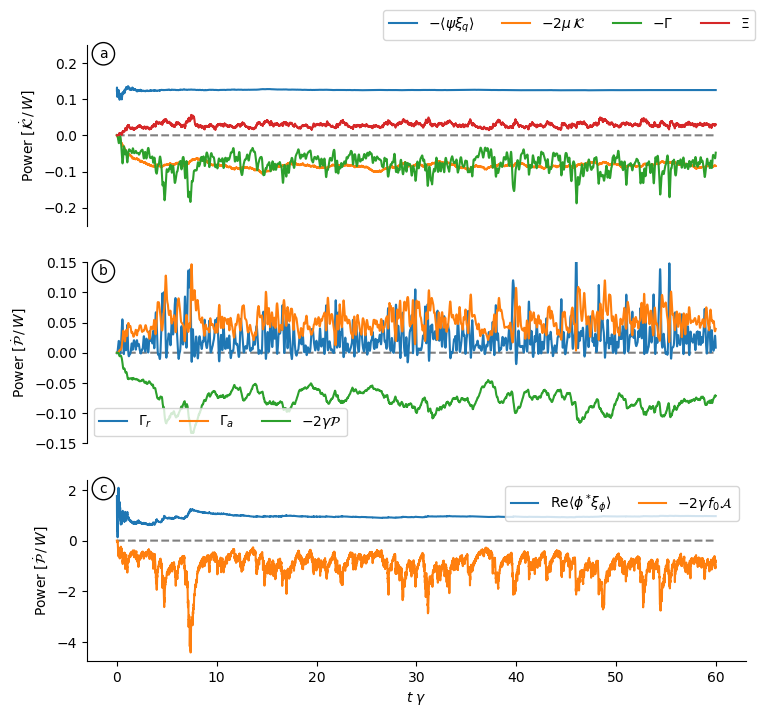
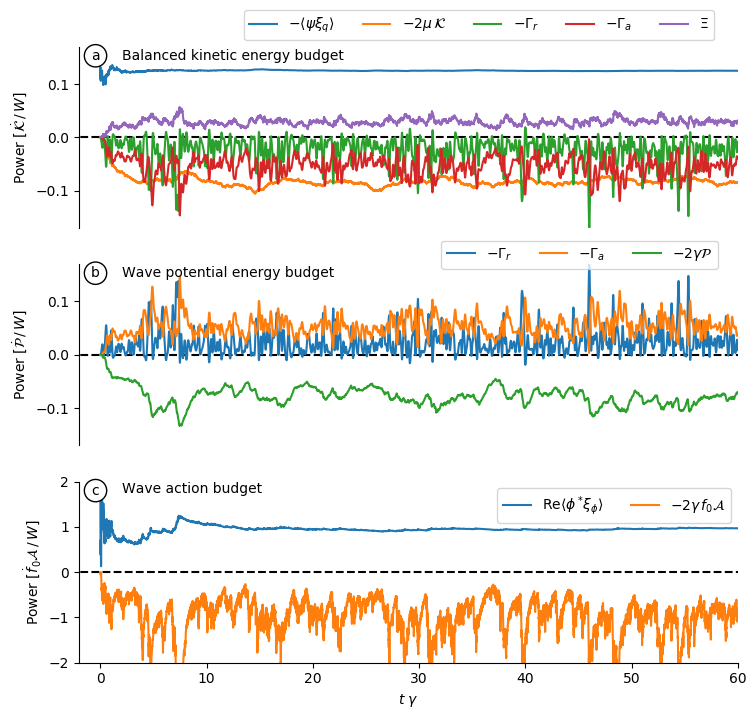
Updates last changes.

diff --git a/code/CompareDiagnostics.py b/code/CompareDiagnostics.py
@@ -13,9 +13,9 @@ import scipy.signal as signal
 plt.close('all')
 
 pathi_nodrag = "output/new/512_nodrag/"
+pathi_nowaves = "output/new/512_nowaves/"
 pathi_reference = "output/new/512_reference/"
 patho = "../writeup/figs/"
-
 
 #
 # parameters
@@ -102,6 +102,7 @@ x, y = setup['grid/x'][:]*kf, setup['grid/y'][:]*kf
 #
 diags_reference = h5py.File(pathi_reference+"diagnostics.h5","r")
 diags_nodrag = h5py.File(pathi_nodrag+"diagnostics.h5","r")
+diags_nowaves = h5py.File(pathi_nowaves+"diagnostics.h5","r")
 time = diags_reference['time'][:]*gamma
 
 #
@@ -112,13 +113,17 @@ time = diags_reference['time'][:]*gamma
 #E = epsilon_q/gamma
 Ew = PHI**2 / 2
 E = Ew
+K = (sigma_q**2)/mu/2
 POWER = (sigma_w**2 / 2)
 
 # energies
 fig = plt.figure(figsize=(8.5,8.))
 ax = fig.add_subplot(311)
+plt.plot([-5,65],[K,K]/E,'k--')
 pk = plt.plot(time,diags_reference['ke_qg'][:]/E)
 pp = plt.plot(time,diags_nodrag['ke_qg'][:]/E)
+plt.plot(time,diags_nowaves['ke_qg'][:]/E)
+plt.xlim(-2,60)
 plt.ylabel(r"Balanced kinetic energy $[\mathcal{K}/E]$")
 plt.yticks([0,0.5,1.0,1.5,2.0])
 plt.legend(loc=(0.35,-0.2),ncol=3)
@@ -126,7 +131,8 @@ remove_axes(ax,bottom=True)
 plot_fig_label(ax,xc=0.025,yc=0.95,label=r'$\mathcal{K}$')
 
 plt.text(47,1.28,'No drag')
-plt.text(28,0.1,'Reference')
+plt.text(33,0.1,'Reference')
+plt.text(15,0.575,'No waves')
 
 ax = fig.add_subplot(312)
 plt.plot(time,(diags_reference['pe_niw'][:])/E,label=r'Reference',color=pk[0].get_color())
@@ -134,6 +140,7 @@ plt.plot(time,(diags_nodrag['pe_niw'][:])/E,label=r'No drag',color=pp[0].get_col
 plt.ylabel(r"Wave potential energy $[\mathcal{P}/E]$")
 plt.ylim(0,.35)
 plt.yticks([0,0.1,.2,.3])
+plt.xlim(-2,60)
 remove_axes(ax)
 plot_fig_label(ax,xc=0.025,yc=0.95,label=r'$\mathcal{P}$')
 remove_axes(ax,bottom=True)
@@ -141,17 +148,17 @@ plt.text(47,0.3,'No drag')
 plt.text(28,0.04,'Reference')
 
 ax = fig.add_subplot(313)
+plt.plot([-5,65],[Ew,Ew]/E,'k--')
 plt.plot(time,(diags_reference['ke_niw'][:])/E,label=r'Reference',color=pk[0].get_color())
 plt.plot(time,(diags_nodrag['ke_niw'][:])/E,label=r'No drag',color=pp[0].get_color())
 plt.ylabel(r"Wave kinetic energy $[f_0\mathcal{A}/E]$")
-
 plt.xlabel(r"Time $[t\,\,\gamma]$")
+plt.xlim(-2,60)
 remove_axes(ax)
 plt.ylim(0,3.5)
 plt.yticks([0,1.0,2.0,3.0],["0.0","1.0","2.0","3.0"])
 plot_fig_label(ax,xc=0.025,yc=0.95,label=r'$\mathcal{A}$')
 plt.savefig(patho+'energies_comparison' , pad_inces=0, bbox_inches='tight')
-
 
 ## averages
 #Am =  diags['ke_niw'][eq].mean()
@@ -163,98 +170,186 @@ plt.savefig(patho+'energies_comparison' , pad_inces=0, bbox_inches='tight')
 #gamma_a = diags['gamma_a'][:]
 #
 ## First, design the Buterworth filter
-#N  = 2    # Filter order
-#Wn = 0.05 # Cutoff frequency
-#B, A = signal.butter(N, Wn, output='ba')
+N  = 2    # Filter order
+Wn = 0.05 # Cutoff frequency
+B, A = signal.butter(N, Wn, output='ba')
 #gamma_a_filt = signal.filtfilt(B,A, gamma_a)
 #gamma_r_filt = signal.filtfilt(B,A, gamma_r)
 
-# energies
-fig = plt.figure(figsize=(8.5,5.))
-ax = fig.add_subplot(211)
-pa = plt.plot(time,diags['ke_niw']/E,label=r'$f_0\mathcal{A}$')
-pk = plt.plot(time,diags['ke_qg'][:]/E,label=r'$\mathcal{K}$')
-pp = plt.plot(time,diags['pe_niw']/E,label=r'$\mathcal{P}$')
-#plt.xlabel(r"Time $[t\,\,\gamma]$")
-plt.ylabel(r"Energy $[\mathcal{E}/E]$")
-plt.yticks(np.arange(0,4))
-plt.legend(loc=(0.35,-0.2),ncol=3)
-remove_axes(ax,bottom=True)
-plot_fig_label(ax,xc=0.025,yc=0.95,label='a')
-
-ax = fig.add_subplot(212)
-plt.plot(time,np.zeros_like(time),'--',color='0.5')
-plt.plot(time,(diags['ke_qg'][:]-Km)/E,label=r'$\mathcal{K}$',color=pk[0].get_color())
-plt.plot(time,(diags['pe_niw']-Pm)/E,label=r'$\mathcal{P}$',color=pp[0].get_color())
-plt.xlabel(r"Time $[t\,\,\gamma]$")
-plt.ylabel(r"Energy diff $[\Delta \mathcal{E}/E]$")
-plt.ylim(1.,1.)
-plt.yticks([-1.,-0.5,0,0.5,1.])
-remove_axes(ax)
-plot_fig_label(ax,xc=0.025,yc=0.95,label='b')
-plt.savefig(patho+'energies_nodrag' , pad_inces=0, bbox_inches='tight')
-
 # energy budgets
+
+# reference
 fig = plt.figure(figsize=(8.5,8.))
-
 ax = fig.add_subplot(311)
-plt.plot(time,np.zeros_like(time),'--',color='0.5')
-plt.plot(time,(diags['Work_q'][:])/(time/gamma)/POWER,label=r'$-\leftangle \psi \xi_q \rightangle$')
-plt.plot(time,diags['ep_psi'][:]/POWER,label=r'$-2\mu\,\mathcal{K}$')
-plt.plot(time,-(gamma_r_filt+gamma_a_filt)/POWER,label=r'$-\Gamma$')
-plt.plot(time,(diags['xi_a'][:]+diags['xi_r'][:])/POWER,label=r'$\Xi$')
-plt.legend(loc=(0.45,1.025),ncol=4)
+plt.plot([-5,65],[0,0],'k--')
+plt.plot(time,(diags_reference['Work_q'][:])/(time/gamma)/POWER,label=r'$-\leftangle \psi \xi_q \rightangle$')
+plt.plot(time,diags_reference['ep_psi'][:]/POWER,label=r'$-2\mu\,\mathcal{K}$')
+plt.plot(time,-(signal.filtfilt(B,A,diags_reference['gamma_r'][:]))/POWER,label=r'$-\Gamma_r$')
+plt.plot(time,-(signal.filtfilt(B,A,diags_reference['gamma_a'][:]))/POWER,label=r'$-\Gamma_a$')
+plt.plot(time,(diags_reference['xi_a'][:]+diags_reference['xi_r'][:])/POWER,label=r'$\Xi$')
+plt.legend(loc=(0.25,1.035),ncol=5)
 plt.ylabel(r"Power [$\dot \mathcal{K} \,/\, W$]")
-plt.ylim(-.4,.4)
+plt.ylim(-.17,.17)
+plt.xlim(-2,60)
 remove_axes(ax,bottom=True)
-
+plt.text(2,.145,'Balanced kinetic energy budget')
 plot_fig_label(ax,xc=0.025,yc=0.95,label='a')
 
 ax = fig.add_subplot(312)
-plt.plot(time,np.zeros_like(time),'--',color='0.5')
-plt.plot(time,gamma_r_filt/POWER,label=r'$\Gamma_r$')
-plt.plot(time,gamma_a_filt/POWER,label=r'$\Gamma_a$')
-plt.plot(time,diags['chi_phi'][:]/POWER,label=r'$-2\gamma\mathcal{P}$')
-plt.ylim(-.4,.4)
-plt.legend(loc=3,ncol=3)
+plt.plot([-5,65],[0,0],'k--')
+plt.plot(time,(signal.filtfilt(B,A,diags_reference['gamma_r'][:]))/POWER,label=r'$-\Gamma_r$')
+plt.plot(time,(signal.filtfilt(B,A,diags_reference['gamma_a'][:]))/POWER,label=r'$-\Gamma_a$')
+plt.plot(time,diags_reference['chi_phi'][:]/POWER,label=r'$-2\gamma\mathcal{P}$')
+plt.ylim(-.17,.17)
+plt.legend(loc=(.55,.975),ncol=3)
 plt.ylabel(r"Power [$\dot \mathcal{P} \,/\, W$]")
 remove_axes(ax,bottom=True)
 plot_fig_label(ax,xc=0.025,yc=0.95,label='b')
+plt.xlim(-2,60)
+plt.text(2,.145,'Wave potential energy budget')
 
 ax = fig.add_subplot(313)
-plt.plot(time,np.zeros_like(time),'--',color='0.5')
-plt.plot(time,diags['Work_w']/(time/gamma)/POWER,label=r'Re$\leftangle \phi^*\!\xi_\phi\rightangle$')
-plt.plot(time,diags['ep_phi']/POWER,label=r'$-2\gamma\, f_0 \mathcal{A}$')
+plt.plot([-5,65],[0,0],'k--')
+plt.plot(time,diags_reference['Work_w']/(time/gamma)/POWER,label=r'Re$\leftangle \phi^*\!\xi_\phi\rightangle$')
+plt.plot(time,diags_reference['ep_phi']/POWER,label=r'$-2\gamma\, f_0 \mathcal{A}$')
 plt.xlabel(r"$t\,\, \gamma$")
-plt.ylabel(r"Power [$\dot \mathcal{P} \,/\, W$]")
+plt.ylabel(r"Power [$\dot f_0\mathcal{A} \,/\, W$]")
 plt.legend(loc=1,ncol=2)
+plt.ylim(-2,2)
+plt.xlim(-2,60)
 remove_axes(ax)
 plot_fig_label(ax,xc=0.025,yc=0.95,label='c')
+plt.text(2,1.75,'Wave action budget')
+plt.savefig(patho+'K_and_P_and_A_budget_reference', pad_inces=0, bbox_inches='tight')
 
+# no-drag
+fig = plt.figure(figsize=(8.5,8.))
+ax = fig.add_subplot(311)
+plt.plot([-5,65],[0,0],'k--')
+plt.plot(time,(diags_nodrag['Work_q'][:])/(time/gamma)/POWER,label=r'$-\leftangle \psi \xi_q \rightangle$')
+plt.plot(time,diags_nodrag['ep_psi'][:]/POWER,label=r'$-2\mu\,\mathcal{K}$')
+plt.plot(time,-(signal.filtfilt(B,A,diags_nodrag['gamma_r'][:]))/POWER,label=r'$-\Gamma_r$')
+plt.plot(time,-(signal.filtfilt(B,A,diags_nodrag['gamma_a'][:]))/POWER,label=r'$-\Gamma_a$')
+plt.plot(time,(diags_nodrag['xi_a'][:]+diags_nodrag['xi_r'][:])/POWER,label=r'$\Xi$')
+plt.legend(loc=(0.25,1.035),ncol=5)
+plt.ylabel(r"Power [$\dot \mathcal{K} \,/\, W$]")
+plt.ylim(-.3,.3)
+plt.xlim(-2,60)
+remove_axes(ax,bottom=True)
+plt.text(2,.27,'Balanced kinetic energy budget')
+plot_fig_label(ax,xc=0.025,yc=0.95,label='a')
+
+ax = fig.add_subplot(312)
+plt.plot([-5,65],[0,0],'k--')
+plt.plot(time,(signal.filtfilt(B,A,diags_nodrag['gamma_r'][:]))/POWER,label=r'$-\Gamma_r$')
+plt.plot(time,(signal.filtfilt(B,A,diags_nodrag['gamma_a'][:]))/POWER,label=r'$-\Gamma_a$')
+plt.plot(time,diags_nodrag['chi_phi'][:]/POWER,label=r'$-2\gamma\mathcal{P}$')
+plt.ylim(-.3,.3)
+plt.legend(loc=(.55,.975),ncol=3)
+plt.ylabel(r"Power [$\dot \mathcal{P} \,/\, W$]")
+remove_axes(ax,bottom=True)
+plot_fig_label(ax,xc=0.025,yc=0.95,label='b')
+plt.xlim(-2,60)
+plt.text(2,.27,'Wave potential energy budget')
+
+ax = fig.add_subplot(313)
+plt.plot([-5,65],[0,0],'k--')
+plt.plot(time,diags_nodrag['Work_w']/(time/gamma)/POWER,label=r'Re$\leftangle \phi^*\!\xi_\phi\rightangle$')
+plt.plot(time,diags_nodrag['ep_phi']/POWER,label=r'$-2\gamma\, f_0 \mathcal{A}$')
+plt.xlabel(r"$t\,\, \gamma$")
+plt.ylabel(r"Power [$\dot f_0\mathcal{A} \,/\, W$]")
+plt.legend(loc=1,ncol=2)
+plt.ylim(-2,2)
+plt.xlim(-2,60)
+remove_axes(ax)
+plot_fig_label(ax,xc=0.025,yc=0.95,label='c')
+plt.text(2,1.75,'Wave action budget')
 plt.savefig(patho+'K_and_P_and_A_budget_nodrag', pad_inces=0, bbox_inches='tight')
+
 
 
 #
 # calculate average budget after equilibration 
 #
 
+eq = time>20
+
+## reference
+
 # A budget
-residual = diags['Work_w'][eq]/(time[eq]/gamma)+diags['ep_phi'][eq]
-work_w_tot =  (diags['Work_w'][eq]/(time[eq]/gamma) ).mean()
-ep_phi_tot = (diags['ep_phi'][eq]).mean()
-residual_A = residual.mean()/work_w_tot
+residual = diags_reference['Work_w'][eq]/(time[eq]/gamma)+diags_reference['ep_phi'][eq]
+work_w_tot =  (diags_reference['Work_w'][eq]/(time[eq]/gamma) ).mean()
+norm = work_w_tot.sum()
+work_w_tot =  (diags_reference['Work_w'][eq]/(time[eq]/gamma) ).mean()/norm
+ep_phi_tot = (diags_reference['ep_phi'][eq]).mean()/norm
+residual_A = residual.mean()/norm
 
 # P buget
-residual = diags['gamma_r'][eq]+diags['gamma_a'][eq]+diags['chi_phi'][eq]
-gamma_tot = (diags['gamma_r'][eq]+diags['gamma_a'][eq]).mean()
-chi_phi_tot = diags['chi_phi'][eq].mean()/gamma_tot
-residual_P = residual.mean()/gamma_tot
+residual = diags_reference['gamma_r'][eq]+diags_reference['gamma_a'][eq]+diags_reference['chi_phi'][eq]
+gamma_tot = (diags_reference['gamma_r'][eq]+diags_reference['gamma_a'][eq]).mean()
+norm = gamma_tot.sum()
+gamma_r = (diags_reference['gamma_r'][eq]).mean()/norm
+gamma_a = (diags_reference['gamma_a'][eq]).mean()/norm
+chi_phi_tot = diags_reference['chi_phi'][eq].mean()/norm
+residual_P = residual.mean()/norm
 
 # K budget
-residual =  -(diags['gamma_r'][eq]+diags['gamma_a'][eq]) + (diags['xi_r'][eq]+diags['xi_a'][eq]) + diags['ep_psi'][eq].mean() + (diags['Work_q'][eq]/(time[eq]/gamma))
-work_q_tot = (diags['Work_q'][eq]/(time[eq]/gamma)).mean()
-gamma_q_tot =  -(diags['gamma_r'][eq]+diags['gamma_a'][eq]).mean()/work_q_tot
-xi_tot =  (diags['xi_r'][eq]+diags['xi_a'][eq]).mean()/work_q_tot
-ep_psi_tot = diags['ep_psi'][eq].mean()/work_q_tot
-residual_K = residual.mean()/work_q_tot
+residual =  -(diags_reference['gamma_r'][eq]+diags_reference['gamma_a'][eq]) + (diags_reference['xi_r'][eq]+diags_reference['xi_a'][eq]) + diags_reference['ep_psi'][eq].mean() + (diags_reference['Work_q'][eq]/(time[eq]/gamma))
+work_q_tot = (diags_reference['Work_q'][eq]/(time[eq]/gamma)).mean()
+norm = work_q_tot.sum()
+work_q_tot = (diags_reference['Work_q'][eq]/(time[eq]/gamma)).mean()/norm
+gamma_q_tot =  -(diags_reference['gamma_r'][eq]+diags_reference['gamma_a'][eq]).mean()/norm
+xi_tot =  (diags_reference['xi_r'][eq]+diags_reference['xi_a'][eq]).mean()/norm
+ep_psi_tot = diags_reference['ep_psi'][eq].mean()/norm
+residual_K = residual.mean()/norm
+
+
+##  no drag
+
+# A budget
+residual = diags_nodrag['Work_w'][eq]/(time[eq]/gamma)+diags_nodrag['ep_phi'][eq]
+work_w_tot =  (diags_nodrag['Work_w'][eq]/(time[eq]/gamma) ).mean()
+norm = work_w_tot.sum()
+work_w_tot =  (diags_nodrag['Work_w'][eq]/(time[eq]/gamma) ).mean()/norm
+ep_phi_tot = (diags_nodrag['ep_phi'][eq]).mean()/norm
+residual_A = residual.mean()/norm
+
+# P buget
+residual = diags_nodrag['gamma_r'][eq]+diags_nodrag['gamma_a'][eq]+diags_nodrag['chi_phi'][eq]
+gamma_tot = (diags_nodrag['gamma_r'][eq]+diags_nodrag['gamma_a'][eq]).mean()
+norm = gamma_tot.sum()
+gamma_r = (diags_nodrag['gamma_r'][eq]).mean()/norm
+gamma_a = (diags_nodrag['gamma_a'][eq]).mean()/norm
+chi_phi_tot = diags_nodrag['chi_phi'][eq].mean()/norm
+residual_P = residual.mean()/norm
+
+# K budget
+residual =  -(diags_nodrag['gamma_r'][eq]+diags_nodrag['gamma_a'][eq]) + (diags_nodrag['xi_r'][eq]+diags_nodrag['xi_a'][eq]) + diags_nodrag['ep_psi'][eq].mean() + (diags_nodrag['Work_q'][eq]/(time[eq]/gamma))
+work_q_tot = (diags_nodrag['Work_q'][eq]/(time[eq]/gamma)).mean()
+norm = work_q_tot.sum()
+work_q_tot = (diags_nodrag['Work_q'][eq]/(time[eq]/gamma)).mean()/norm
+gamma_q_tot =  -(diags_nodrag['gamma_r'][eq]+diags_nodrag['gamma_a'][eq]).mean()/norm
+xi_tot =  (diags_nodrag['xi_r'][eq]+diags_nodrag['xi_a'][eq]).mean()/norm
+ep_psi_tot = diags_nodrag['ep_psi'][eq].mean()/norm
+residual_K = residual.mean()/norm
+
+## no waves
+
+residual =  -(diags_nowaves['gamma_r'][eq]+diags_nowaves['gamma_a'][eq]) + (diags_nowaves['xi_r'][eq]+diags_nowaves['xi_a'][eq]) + diags_nowaves['ep_psi'][eq].mean() + (diags_nowaves['Work_q'][eq]/(time[eq]/gamma))
+work_q_tot = (diags_nowaves['Work_q'][eq]/(time[eq]/gamma)).mean()
+norm = work_q_tot.sum()
+work_q_tot = (diags_nowaves['Work_q'][eq]/(time[eq]/gamma)).mean()/norm
+gamma_q_tot =  -(diags_nowaves['gamma_r'][eq]+diags_nowaves['gamma_a'][eq]).mean()/norm
+xi_tot =  (diags_nowaves['xi_r'][eq]+diags_nowaves['xi_a'][eq]).mean()/norm
+ep_psi_tot = diags_nowaves['ep_psi'][eq].mean()/norm
+residual_K = residual.mean()/norm
+
+
+
+
+
+
+
+
+
 
